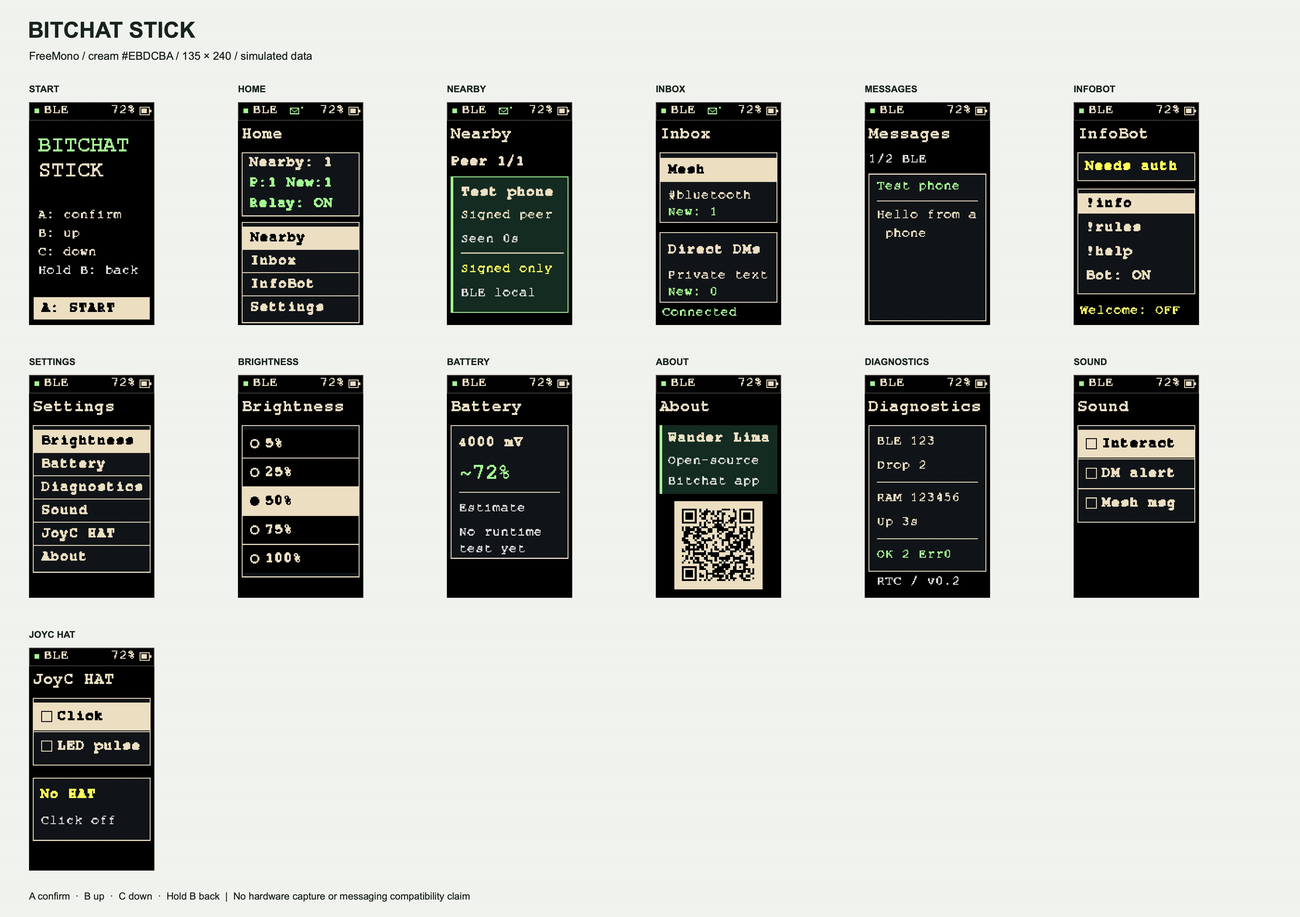
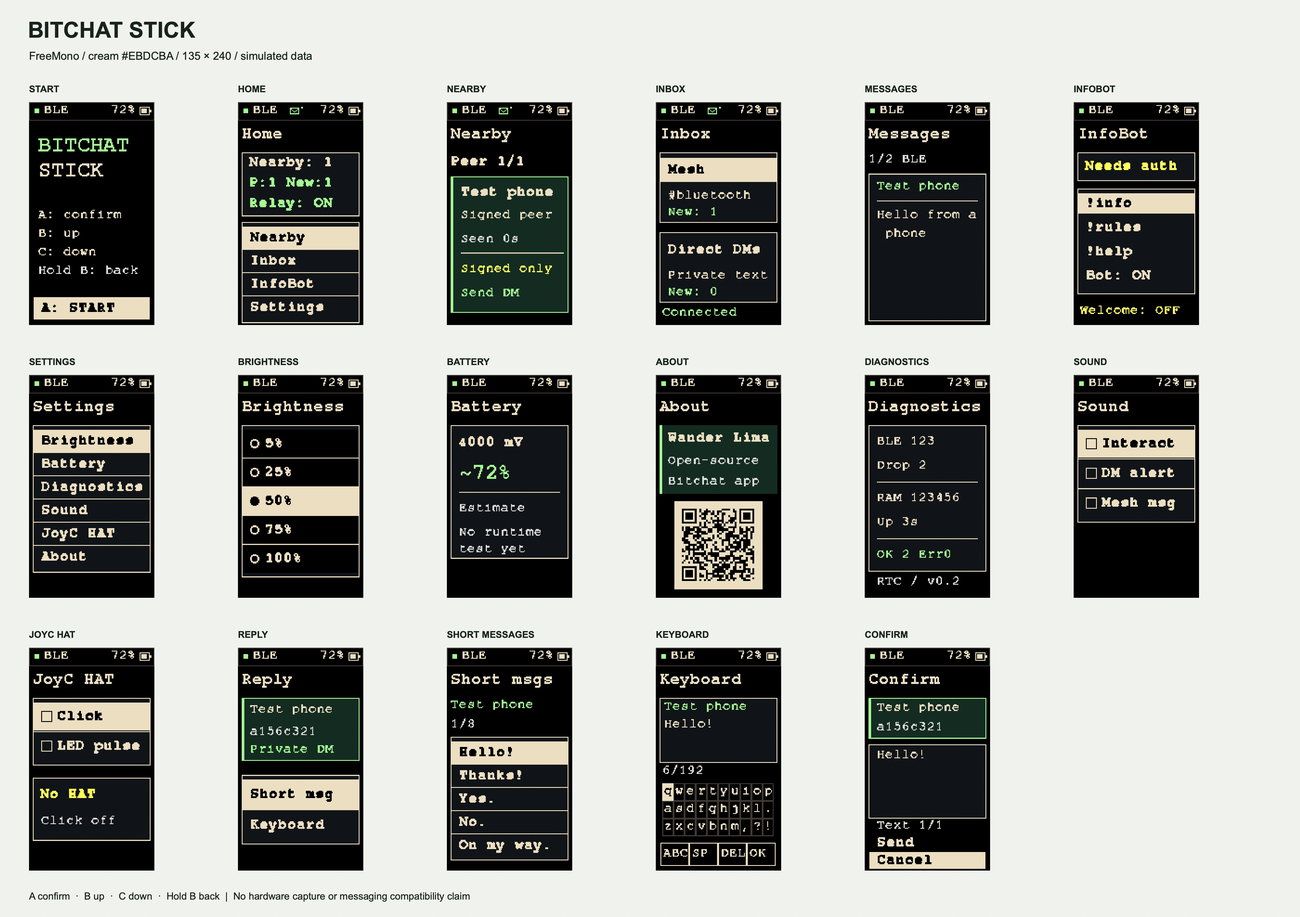
docs: add private composer previews and device validation
- Export four additional screens from real drawing calls and refresh the overview.
- Update implementation scope, wire contract and controls for private replies.
- Record passing software/build checks and keep mobile reception explicitly unverified.

diff --git a/tools/export-preview-jpegs.swift b/tools/export-preview-jpegs.swift
@@ -14,8 +14,8 @@ func text(_ text:String,_ x:CGFloat,_ y:CGFloat,_ size:CGFloat,_ bold:Bool=false
 }
 text("BITCHAT STICK",48,31,38,true)
 text("FreeMono / cream #EBDCBA / 135 × 240 / simulated data",50,86,19)
-let names=["07-splash","01-dashboard","02-nearby-peers","03-channels","04-channel-messages","05-infobot","06-settings","08-brightness","10-battery","09-about","11-diagnostics","12-sound","13-joyc-hat"]
-let titles=["START","HOME","NEARBY","INBOX","MESSAGES","INFOBOT","SETTINGS","BRIGHTNESS","BATTERY","ABOUT","DIAGNOSTICS","SOUND","JOYC HAT"]
+let names=["07-splash","01-dashboard","02-nearby-peers","03-channels","04-channel-messages","05-infobot","06-settings","08-brightness","10-battery","09-about","11-diagnostics","12-sound","13-joyc-hat","14-reply","15-short-messages","16-keyboard","17-confirm"]
+let titles=["START","HOME","NEARBY","INBOX","MESSAGES","INFOBOT","SETTINGS","BRIGHTNESS","BATTERY","ABOUT","DIAGNOSTICS","SOUND","JOYC HAT","REPLY","SHORT MESSAGES","KEYBOARD","CONFIRM"]
 for i in 0..<names.count {
  let x=CGFloat(50+(i%6)*360),y=CGFloat(145+(i/6)*470)
  text(titles[i],x,y,16,true)
@@ -25,4 +25,4 @@ for i in 0..<names.count {
 }
 text("A confirm  ·  B up  ·  C down  ·  Hold B back  |  No hardware capture or messaging compatibility claim",50,1535,17)
 board.unlockFocus();save(board,"00-overview.jpg")
-print("Thirteen screen JPEGs and overview saved")
+print("Seventeen screen JPEGs and overview saved")

diff --git a/test/ui_preview.cpp b/test/ui_preview.cpp
@@ -37,10 +37,11 @@ int main(int argc, char** argv) {
     assert(wire::signPacket(f,other.signingSecret(),scratch,sizeof(scratch),sig));f.signature={sig,64};assert(wire::encode(f,encoded,sizeof(encoded),n)==wire::Error::None);mesh().receive({encoded,n},1);};
   incoming(1,{announcement,80});const char* text="Hello from a phone";incoming(2,{reinterpret_cast<const uint8_t*>(text),std::strlen(text)});
   beginUi();battery=72;voltage=4000;
-  const Screen pages[]={Screen::Dashboard,Screen::Peers,Screen::Channels,Screen::Messages,Screen::Bot,Screen::Settings,Screen::Splash,Screen::Brightness,Screen::About,Screen::Battery,Screen::Diagnostics,Screen::Sound,Screen::Joystick};
-  const char* names[]={"01-dashboard","02-nearby-peers","03-channels","04-channel-messages","05-infobot","06-settings","07-splash","08-brightness","09-about","10-battery","11-diagnostics","12-sound","13-joyc-hat"};
-  for(unsigned i=0;i<13;++i) {
-    screen=pages[i];selection=pages[i]==Screen::Brightness ? 2 : 0;detail=false;draw(peers,3000);
+  const Screen pages[]={Screen::Dashboard,Screen::Peers,Screen::Channels,Screen::Messages,Screen::Bot,Screen::Settings,Screen::Splash,Screen::Brightness,Screen::About,Screen::Battery,Screen::Diagnostics,Screen::Sound,Screen::Joystick,Screen::Reply,Screen::ShortMessages,Screen::Keyboard,Screen::Confirm};
+  const char* names[]={"01-dashboard","02-nearby-peers","03-channels","04-channel-messages","05-infobot","06-settings","07-splash","08-brightness","09-about","10-battery","11-diagnostics","12-sound","13-joyc-hat","14-reply","15-short-messages","16-keyboard","17-confirm"};
+  for(unsigned i=0;i<17;++i) {
+    composer.open(other.id(),"Test phone");composer.preset(0);
+    screen=pages[i];selection=pages[i]==Screen::Brightness ? 2 : 0;detail=false;if(screen==Screen::Confirm)selection=reviewPages()+1;draw(peers,3000);
     assert(M5.Display.boundsOk);
     std::ofstream out((std::string(argv[1])+"/")+names[i]+".ops");
     for(const auto& op:M5.Display.ops) out<<op<<'\n';

diff --git a/docs/04-screens.md b/docs/04-screens.md
@@ -1,6 +1,6 @@
 # Screens, layout, and controls
 
-Target: **M5StickC Plus2, 135 × 240 pixels, portrait, en-US**. The editable [Figma file](https://www.figma.com/design/z2zlfw1uBejLJ5fFfRGkeZ/Bitchat-Stick) defines the visual direction. All thirteen screens are present in the firmware. Live device information is never replaced with sample peers or chat.
+Target: **M5StickC Plus2, 135 × 240 pixels, portrait, en-US**. The editable [Figma file](https://www.figma.com/design/z2zlfw1uBejLJ5fFfRGkeZ/Bitchat-Stick) defines the visual direction. All seventeen screens are present in the firmware. Live device information is never replaced with sample peers or chat.
 
 ## Shared visual system
 
@@ -49,7 +49,7 @@ Diagnostics shows `J:X,Y` when the HAT responds. It exposes the module's calibra
 | Home | Advertisement candidates, signed-peer/unread counts, envelope, real relay/transport state | Counts do not prove channel membership |
 | Nearby | Signed peers take priority when available; otherwise filtered candidates; A opens ID/address details | Signed-only and Noise-authenticated statuses are distinct; RSSI belongs only to observations |
 | Inbox | Separate Mesh (`#bluetooth`) and Direct DMs destinations with unread counts; A opens the selected history | No private groups or Nostr context |
-| Messages | Twelve-entry public/DM live history with BLE/DM labels; B/C cycle messages; A opens text-scroll mode; B/C scroll; hold-B leaves detail, then returns to Inbox | RAM-only, 192 displayed bytes, truncation indicated; no composer |
+| Messages | Twelve-entry public/DM live history with BLE/DM labels; B/C cycle messages; A opens text-scroll mode; B/C scroll; A again replies; hold-B leaves detail, then returns to Inbox | RAM-only, 192 displayed bytes, truncation indicated; replies use a live authenticated session |
 | InfoBot | Command reference, authentication readiness, immediate Bot ON/OFF switch | Toggle is per boot; Welcome OFF |
 | Settings | Brightness, Battery, Diagnostics, Sound, JoyC HAT, About | Choices use compact rows |
 | Sound | Independent Interact, DM alert and Mesh msg square checkboxes | All default off |
@@ -109,7 +109,7 @@ The **95 × 95px** QR points to **https://github.com/wanderlima/bitchat-stick**.
 
 ## Verification and previews
 
-The [thirteen JPEG previews](screens/README.md) are generated from current drawing calls and pinned font bitmaps, using simulated measurements. They are not hardware screenshots or protocol evidence. The host UI regression checks controls, applied-versus-focused brightness, all screens, live status, ordinary/candidate/empty peers, large counters and text/rectangle bounds. Physical readability, battery behavior, radio scanning, and QR camera reading need a device pass after upload.
+The [seventeen JPEG previews](screens/README.md) are generated from current drawing calls and pinned font bitmaps, using simulated measurements. They are not hardware screenshots or protocol evidence. The host UI regression checks controls, applied-versus-focused brightness, all screens, live status, ordinary/candidate/empty peers, large counters and text/rectangle bounds. Physical readability, battery behavior, radio scanning, and QR camera reading need a device pass after upload.
 
 ## Inbox and read state
 
@@ -126,3 +126,11 @@ Settings → JoyC HAT has Click and LED pulse. Click reads the active-low button
 ### HAT reference integration — 2026-11-11
 
 The driver follows the local working Nemo reference's M5Unified transaction sequence, including STOP between register selection and reading. It probes Mini JoyC at 0x54 and classic JoyC at 0x38, using their respective axis/button/LED registers. After a full power cycle and HAT remount, the owner confirmed Hat ready and working navigation. The initial portrait transform reversed both directions on this physical device. The corrected mapping uses raw X and inverted raw Y: left returns, right confirms, and up/down navigate. Physical confirmation of the corrected directions is pending.
+
+## Private composer — four additional screens
+
+Nearby A selects the currently displayed identified user. Inbox A opens the text reader; A again starts a private reply to that message's user. Reply offers Short msg/Keyboard; Short msgs provides eight ready-made English messages; Keyboard puts the draft above a compact QWERTY layout; Confirm shows the recipient and paged draft, then Send/Cancel. Cancel is initially selected.
+
+B/C and JoyC up/down traverse the keyboard in reading order. A/right selects, left/hold-B backs out one step. ABC/123/abc switches case/numbers, SP inserts a space, DEL removes the last character, and OK opens confirmation. The confirmation text pages participate in the same focus cycle as Send and Cancel, allowing the full 192-character draft to be reviewed.
+
+The composer captures a peer ID, not a list position. Failed sends preserve the draft and show Not sent; successful enqueues show Queued and cannot be submitted twice. Delivered/Read require an authenticated receipt. See [behavior and acceptance checks](14-direct-message-composer.md).

diff --git a/docs/12-wire-contract.md b/docs/12-wire-contract.md
@@ -105,7 +105,7 @@ Raw DEFLATE expansion uses the existing pinned M5GFX miniz implementation, with 
 
 Only a successful identity-bound Noise handshake followed by authenticated peer state (`0x21`, version 1) authorizes InfoBot commands. Public commands must also be fresh within 30 seconds, with at most five seconds of future skew. Replies have a 30-second per-peer and 3-second global cooldown. `!info`, `!rules`, `!help`, `!regras`, and `!ajuda` are supported. No advertisement or reconnect produces a welcome message.
 
-The public BLE channel accepts UTF-8 signed text, rejects malformed/control input, and substitutes unsupported display glyphs. Display history is RAM-only and long messages are explicitly truncated. Signed announcements/public text are relayed with reduced TTL after verification and deduplication. Private-message sending, media, private groups, gossip synchronization, Nostr, and opaque multi-hop Noise forwarding are outside this implementation. Noise initiates automatically after signed discovery and also handles incoming direct-link handshakes; it is not an arbitrary routed session manager. Crossed initiations keep the smaller peer ID as initiator. Reconnect/timeout clears authenticated state; sessions expire after one hour.
+The public BLE channel accepts UTF-8 signed text, rejects malformed/control input, and substitutes unsupported display glyphs. Display history is RAM-only and long messages are explicitly truncated. Signed announcements/public text are relayed with reduced TTL after verification and deduplication. Private media, private groups, gossip synchronization, Nostr, and opaque multi-hop Noise forwarding are outside this implementation. Noise initiates automatically after signed discovery and also handles incoming direct-link handshakes; it is not an arbitrary routed session manager. Crossed initiations keep the smaller peer ID as initiator. Reconnect/timeout clears authenticated state; sessions expire after one hour.
 
 Local identity uses a versioned NVS record and never rotates automatically when storage is corrupt. NVS is not encrypted: physical flash extraction can disclose keys. No hardware secure-storage guarantee is made.
 
@@ -126,3 +126,11 @@ A successful store sends an encrypted `0x03` delivered receipt carrying the orig
 Each retained message has a local sequence ID and unread flag; public/private filters share the twelve-entry bound. Outgoing messages start read. The unread envelope/counts derive from retained incoming entries, so overwriting history also removes its old unread entry. UI focus follows the sequence ID rather than a shifting ring offset. Opening the wrong inbox or remaining on Home does not mark a DM read.
 
 Private entries retain at most 64 bytes of message ID plus the sender ID. Once displayed, a pending read receipt uses Noise payload `0x02` followed by the exact original message-ID bytes, matching the official payload factory. At most one live-session encryption/enqueue attempt is made per second; unavailable sessions leave the receipt pending. Queue failures retry, and successfully queued receipts are not repeatedly emitted on redraw. Tests verify the exact decrypted receipt, no receipt before opening, per-message counts, queue retry, filtering, focus stability and eviction. No public read receipt is generated.
+
+## Outgoing private text
+
+`sendDirect` requires a live session and authenticated peer state for the copied eight-byte recipient ID. It validates 1–192 bytes of nonblank UTF-8 text, generates a random 128-bit lowercase-hex message ID, encodes Noise type 0x01 with TLV 0x00 (ID) and 0x01 (content), and emits an addressed 0x11 packet only to that session link. The built-in editor emits ASCII; the transport API validates UTF-8. No public fallback is permitted. Only successful queue acceptance adds an outgoing history entry. Failed enqueue consumes a transport nonce but creates no history entry; the replay window permits gaps.
+
+An outgoing entry starts Queued. Authenticated encrypted type 0x03 (delivered) and 0x02 (read) payloads update only an outgoing DM with the same message ID and peer ID. Read cannot regress to Delivered. Evicted/unknown IDs do not change other entries. Outgoing messages never schedule a read receipt. The sender performs no offline storage, automatic resend or end-to-end delivery guarantee. Android/iOS reception is still a device acceptance check, even though host tests decrypt the exact outgoing frame.
+
+Upstream encoding reference: [NoiseEncrypted.kt](https://github.com/permissionlesstech/bitchat-android/blob/main/app/src/main/java/com/bitchat/android/model/NoiseEncrypted.kt).

diff --git a/README.md b/README.md
@@ -41,7 +41,7 @@ Settings → Sound offers independent checkboxes for interaction beeps, received
 
 Settings offers 5%, 25%, 50%, 75%, and 100% brightness, with 50% as the default. About credits **Wander Lima** and includes a real QR code for [the project repository](https://github.com/wanderlima/bitchat-stick). A radio mark shows the applied brightness; the cream highlight shows the focused option.
 
-The interface uses FreeMono Regular/Bold, warm cream `#EBDCBA` instead of pure white, an outlined BLE header, high-contrast selection, grouped panels, and dividers between menu items and information groups. Nearby retains a dark-green peer card and a bright-green left border. The [screen previews](docs/screens/README.md) illustrate the current direction; they are software renders of all thirteen screens, not photographs or hardware captures.
+The interface uses FreeMono Regular/Bold, warm cream `#EBDCBA` instead of pure white, an outlined BLE header, high-contrast selection, grouped panels, and dividers between menu items and information groups. Nearby retains a dark-green peer card and a bright-green left border. The [screen previews](docs/screens/README.md) illustrate the current direction; they are software renders of all seventeen screens, not photographs or hardware captures.
 
 ## Live features and remaining scope
 
@@ -52,9 +52,10 @@ The interface uses FreeMono Regular/Bold, warm cream `#EBDCBA` instead of pure w
 - InfoBot supports `!info`, `!rules`, and `!help`, plus `!regras`/`!ajuda` aliases. Commands require an authenticated peer and recent signed public text. Per-peer/global limits prevent reply floods. The on-device `Bot: ON/OFF` switch applies immediately for the current boot.
 - Welcome messages remain OFF because discovery/reconnection does not reliably prove channel entry.
 - An envelope in the header indicates unread incoming messages. Home and each inbox show unread counts; opening a DM sends an encrypted read receipt. New arrivals preserve the current reading position. Unread state is RAM-only.
+- Nearby users and Inbox messages open a private composer: Short msg presets or a QWERTY keyboard, then Send/Cancel. Drafts are bounded to 192 ASCII characters. Sending requires an authenticated live session; Queued, Delivered and Read are distinct states. See the [composer and device checklist](docs/14-direct-message-composer.md).
 - Drawing uses a 135 × 240 offscreen framebuffer before updating the display, avoiding the visible erase/redraw cycle.
 
-Private-message composition/media, private groups, Nostr, gossip/history synchronization, arbitrary routed Noise forwarding, OTA, persistent chat history, and Pocket Messenger composition/canned replies remain future scope. See the [wire contract and security limits](docs/12-wire-contract.md) and [current implementation plan](docs/11-implementation-plan.md).
+Private media, private groups, Nostr, gossip/history synchronization, arbitrary routed Noise forwarding, OTA, persistent chat history remain future scope. See the [wire contract and security limits](docs/12-wire-contract.md) and [current implementation plan](docs/11-implementation-plan.md).
 
 The official project distinguishes the offline BLE `#bluetooth` context from geographic channels carried over Nostr and the internet. Do not assume arbitrary channels, passwords, or historical `/j` and `/pass` commands work in installed versions. See the [official channel description](https://github.com/permissionlesstech/bitchat#channel-types).
 
@@ -73,6 +74,7 @@ The official project distinguishes the offline BLE `#bluetooth` context from geo
 - [Implementation plan by screen and complexity](docs/11-implementation-plan.md)
 - [Wire contract and interoperability evidence](docs/12-wire-contract.md)
 - [Device acceptance checklist](docs/13-device-checklist.md)
+- [Private composer and validation checklist](docs/14-direct-message-composer.md)
 
 ## Hardware and evidence
 

diff --git a/docs/09-getting-started.md b/docs/09-getting-started.md
@@ -24,7 +24,7 @@ Full two-phone messaging/relay, iOS payload exchange, display flicker/readabilit
 
 ## Future scope
 
-Private-message sending, media/groups, arbitrary encrypted channels, Nostr, gossip synchronization, general routed Noise forwarding, OTA, persistent chat history and Pocket Messenger sending are not implemented. Welcomes remain disabled until reliable entry detection exists. Keys are stored in unencrypted NVS; peer key pins/history are RAM-only.
+Private media/groups, arbitrary encrypted channels, Nostr, gossip synchronization, general routed Noise forwarding, OTA, persistent chat history are not implemented. Welcomes remain disabled until reliable entry detection exists. Keys are stored in unencrypted NVS; peer key pins/history are RAM-only.
 
 ## Pinned dependencies
 
@@ -136,6 +136,6 @@ Only the loop mutates PeerTable. BLE callbacks enqueue fixed-size observations w
 
 The v0.2 target built and uploaded successfully. Native tests cover fourteen suites plus an independent CryptoKit signature check. The hardware-reproduced GATT startup assertion was corrected, Android verified the announcement and Noise session, and the owner confirmed network visibility. Buffered drawing replaces normal direct erase/redraw; visual acceptance remains a device check.
 
-The owner initially tested a DM while the reader supported only public BLE text. Authenticated private-text decoding, encrypted delivery receipts and DM labels were subsequently added. DMs remain separate from public InfoBot processing; DM commands never generate public replies. Direct-message sending/composition is still future scope. The owner confirmed Android delivery status and reading the DM on the Stick; encrypted read acknowledgements were added afterward and still require final app-side acceptance.
+The owner initially tested a DM while the reader supported only public BLE text. Authenticated private-text decoding, encrypted delivery receipts and DM labels were subsequently added. DMs remain separate from public InfoBot processing; DM commands never generate public replies. Direct-message composition and sending were subsequently added; see [the composer flow](14-direct-message-composer.md). The owner confirmed Android delivery status and reading the DM on the Stick; encrypted read acknowledgements were added afterward and still require final app-side acceptance.
 
 The earlier brightness self-test verified NVS readback across ESP32 restart and restored the original setting. Use the [complete acceptance checklist](13-device-checklist.md) for final display, Android/iOS message reception, controlled relay, reconnect and battery tests. Upload verification does not mark those tests as passed.

diff --git a/docs/06-testing.md b/docs/06-testing.md
@@ -119,3 +119,11 @@ Settings now places About last. The supplied local `m5stick-nemo-wl` reference u
 A temporary address/pin diagnostic found no acknowledgement and observed the GPIO26 line low. The probe was removed and normal firmware restored. Seventeen native suites passed, and the target built/uploaded successfully, with RTC and the application loop alive. The captured runtime still showed `joyc=absent`. A full power cycle/remount was requested to check for a stalled accessory. Successful physical HAT navigation is not claimed.
 
 The owner subsequently confirmed Hat ready and working navigation after powering down and remounting the HAT. Both axes were reported reversed. The driver now uses raw X and inverted raw Y, with host assertions covering both signs. The updated physical direction check remains pending; click, LED and sound have not been independently confirmed.
+
+## Private composer — 2026-11-11
+
+The owner confirmed the corrected JoyC directions. Eighteen native suites and independent CryptoKit signature verification passed after the private composer update. Tests decrypt an outgoing maximum-length private TLV, verify recipient addressing, require an authenticated session, preserve history on failed enqueue, correlate delivery/read receipts and prevent read-state downgrade. UI tests cover Nearby and Inbox entry, stable recipient capture, cancel/back, empty Done, every keyboard mode/key, long drafts and all confirmation pages within 135×240.
+
+The target build passed. Software JPEG previews include all seventeen screens. Actual outbound Android/iOS reception and delivery/read presentation remain manual acceptance checks; build/upload and host decryption do not establish those results. See [the composer checklist](14-direct-message-composer.md).
+
+The updated firmware upload completed with flash hash verification (981,952 bytes). A short USB read produced no telemetry; no post-upload session/delivery result is inferred from that read.

diff --git a/docs/screens/README.md b/docs/screens/README.md
@@ -63,16 +63,10 @@ Firmware uses FreeMono Regular/Bold. Primary cream is #EBDCBA (RGB565 0xEEF7 on 
 Build once with PlatformIO to install the pinned M5GFX font sources. From the root, on macOS with Python 3, a C++ compiler and Swift:
 
 ```sh
-python3 tools/generate-ui-bitmaps.py
-python3 tools/generate-ui-fonts.py
-mkdir -p /tmp/bitchat-ui-previews
-c++ -std=c++17 -Wall -Wextra -Werror -I test/fakes -I include test/ui_preview.cpp src/PeerTable.cpp src/PeerSelection.cpp src/Settings.cpp -o /tmp/bitchat-ui-preview
-/tmp/bitchat-ui-preview /tmp/bitchat-ui-previews
-python3 tools/render-previews.py /tmp/bitchat-ui-previews
-swift -module-cache-path /tmp/bitchat-swift-cache tools/export-preview-jpegs.swift /tmp/bitchat-ui-previews docs/screens
+sh tools/render-device-previews.sh
 ```
 
-All thirteen views use the actual drawing code. Simulated measurements are confined to the host harness; the firmware never seeds its observation table with mock peers.
+All seventeen views use the actual drawing code. Simulated measurements are confined to the host harness; the firmware never seeds its observation table with mock peers.
 
 ## Reproduce exports
 
@@ -85,3 +79,15 @@ After installing the pinned PlatformIO dependencies, run `sh tools/render-device
 ## JoyC HAT
 
 ![Optional joystick click and LED controls](13-joyc-hat.jpg)
+
+## Private message composer
+
+![Reply method](14-reply.jpg)
+
+![Short messages](15-short-messages.jpg)
+
+![QWERTY editor](16-keyboard.jpg)
+
+![Send or cancel](17-confirm.jpg)
+
+Recipient and draft in these renders are synthetic. The firmware does not seed mock chats. The confirmation preview focuses Cancel, matching entry behavior.

diff --git a/docs/11-implementation-plan.md b/docs/11-implementation-plan.md
@@ -41,7 +41,9 @@ Each implementation group is committed separately; no push is part of this work.
 
 - **M:** final logo asset; persistent bot preference; explicit local identity reset; build-information expansion.
 - **M–L:** charging/source indication where supported, battery calibration/hysteresis and measured autonomy.
-- **L:** Pocket Messenger composition and confirmed canned replies; persistent history only after an explicit retention decision.
-- **L–XL:** private-message sending, media/groups, protected-channel participation, gossip synchronization, general encrypted routing and central-role connection scheduling.
+- **L:** persistent history only after an explicit retention decision; the initial private composer and confirmed canned replies are implemented.
+- **L–XL:** private media/groups, protected-channel participation, gossip synchronization, general encrypted routing and central-role connection scheduling.
 - **XL:** Nostr/internet contexts, OTA, persistent/out-of-band peer trust and secure-storage provisioning.
 - **Conditional:** welcomes only after an authoritative, tested entry signal exists. Reappearance, a BLE advert or a reconnect is insufficient.
+
+Completed implementation group: authenticated DM sending, delivery/read correlation, four-screen composer from Nearby/Inbox, bounded QWERTY/canned replies and confirmation/cancellation. Mobile reception remains a physical acceptance check in [the composer checklist](14-direct-message-composer.md).

diff --git a/docs/13-device-checklist.md b/docs/13-device-checklist.md
@@ -98,4 +98,4 @@ Use your own test phones and synthetic content. Public BLE messages are visible 
 
 ## Limits that are not failures of this version
 
-No private-message sending, media/groups, geographic/Nostr channels, sync/history recovery, OTA or message composer/canned-reply UI. History and peer pins are in RAM; local identity and brightness persist in unencrypted NVS. Outgoing public sending is currently exercised through InfoBot and public relay; private sending is limited to protocol delivery receipts. Queue/notification acceptance is not end-to-end delivery confirmation; the sender app must actually receive the encrypted delivered/read receipt. Welcome automation intentionally stays disabled.
+Private media/groups, geographic/Nostr channels, sync/history recovery and OTA are not implemented. Private-message sending with a QWERTY/canned-reply composer is implemented; validate it using [the composer checklist](14-direct-message-composer.md). History and peer pins are in RAM; local identity and brightness persist in unencrypted NVS. Outgoing public sending is currently exercised through InfoBot and public relay; private sending supports confirmed text DMs and protocol delivery/read receipts. Queue/notification acceptance is not end-to-end delivery confirmation; the sender app must actually receive the encrypted delivered/read receipt. Welcome automation intentionally stays disabled.

diff --git a/docs/05-roadmap.md b/docs/05-roadmap.md
@@ -24,8 +24,10 @@ The active gate is physical acceptance: iOS message exchange, controlled two-pho
 
 Use the existing Plus2 Arduino/NimBLE stack with a bounded local protocol model. Cryptography uses pinned Monocypher 4.0.2 and ESP32 mbedTLS SHA-256; host tests cross-check official Swift/Android behavior. The exact SHAs and limitations are recorded in the [wire contract](12-wire-contract.md). No C3/C6/S3 firmware port is claimed.
 
-Private groups/media, Nostr, general encrypted routing, synchronization and Pocket Messenger composition remain separate future milestones. Welcome automation remains blocked by the lack of a reliable entry event.
+Private groups/media, Nostr, general encrypted routing, synchronization and persistent Pocket Messenger history remain separate future milestones. Welcome automation remains blocked by the lack of a reliable entry event.
 
 ## Future definition of done
 
 Record builds and compatibility results, run the test matrix, measure runtime/heap/queues, review licenses, document limitations, and make the bot locally disableable. Two nearby phones receiving the same text is not proof that the Stick relayed it.
+
+The initial Pocket Messenger composer is implemented: canned replies, QWERTY draft entry and explicit destination confirmation. Actual outbound Android/iOS acceptance remains on the [device checklist](14-direct-message-composer.md).

diff --git a/docs/01-requirements.md b/docs/01-requirements.md
@@ -16,7 +16,7 @@ Bitchat Stick is an experimental offline accessory for the M5StickC Plus2. The o
 | RF06 | InfoBot: `!info`, `!rules`, `!help` | Compatible reception/transmission plus spam controls |
 | RF07 | Join-triggered welcome message | Reliable, authenticated context-and-identity association event |
 | RF08 | Power, errors, and statistics | Use available measurements or show “Unavailable” |
-| RF09 | Future Pocket Messenger | Read messages, choose a reply, and confirm its destination before sending |
+| RF09 | Initial Pocket Messenger composer | Read messages, choose a reply, and confirm its destination before sending |
 
 RF03–RF07 remain gated by protocol investigation. Discovery, announcements, reconnections, a new nickname, or a first message must not be substituted for a channel join.
 
